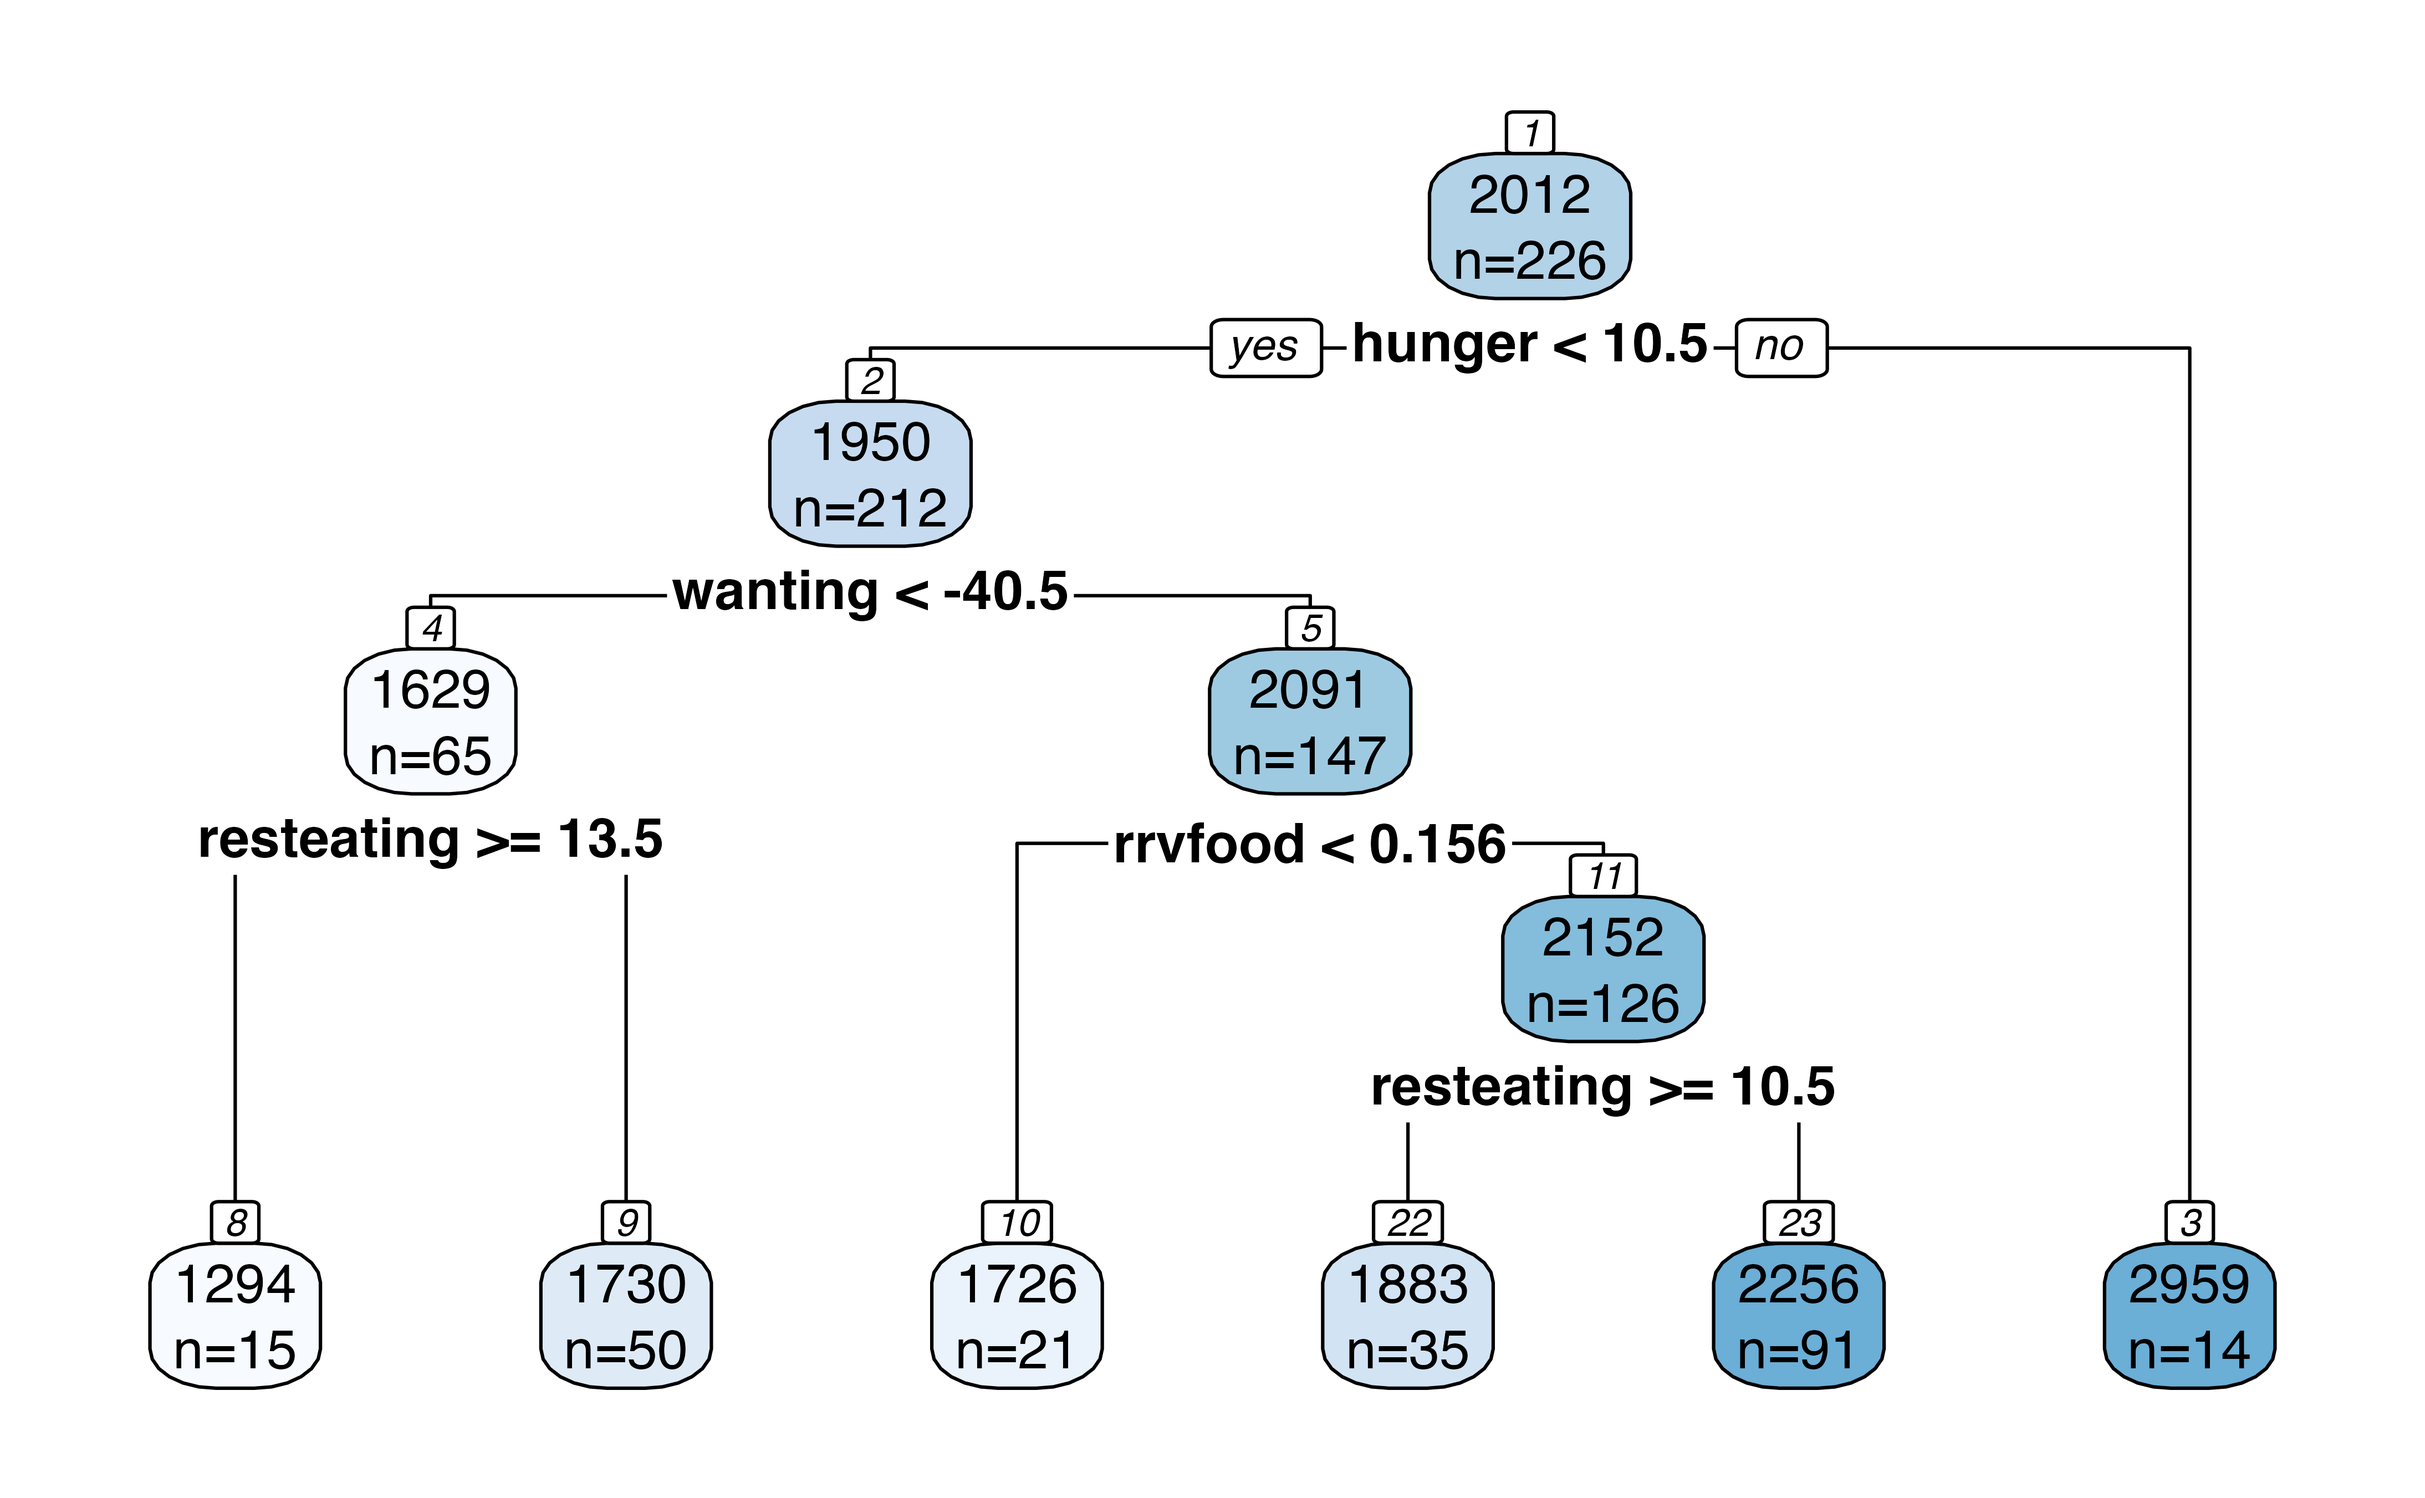
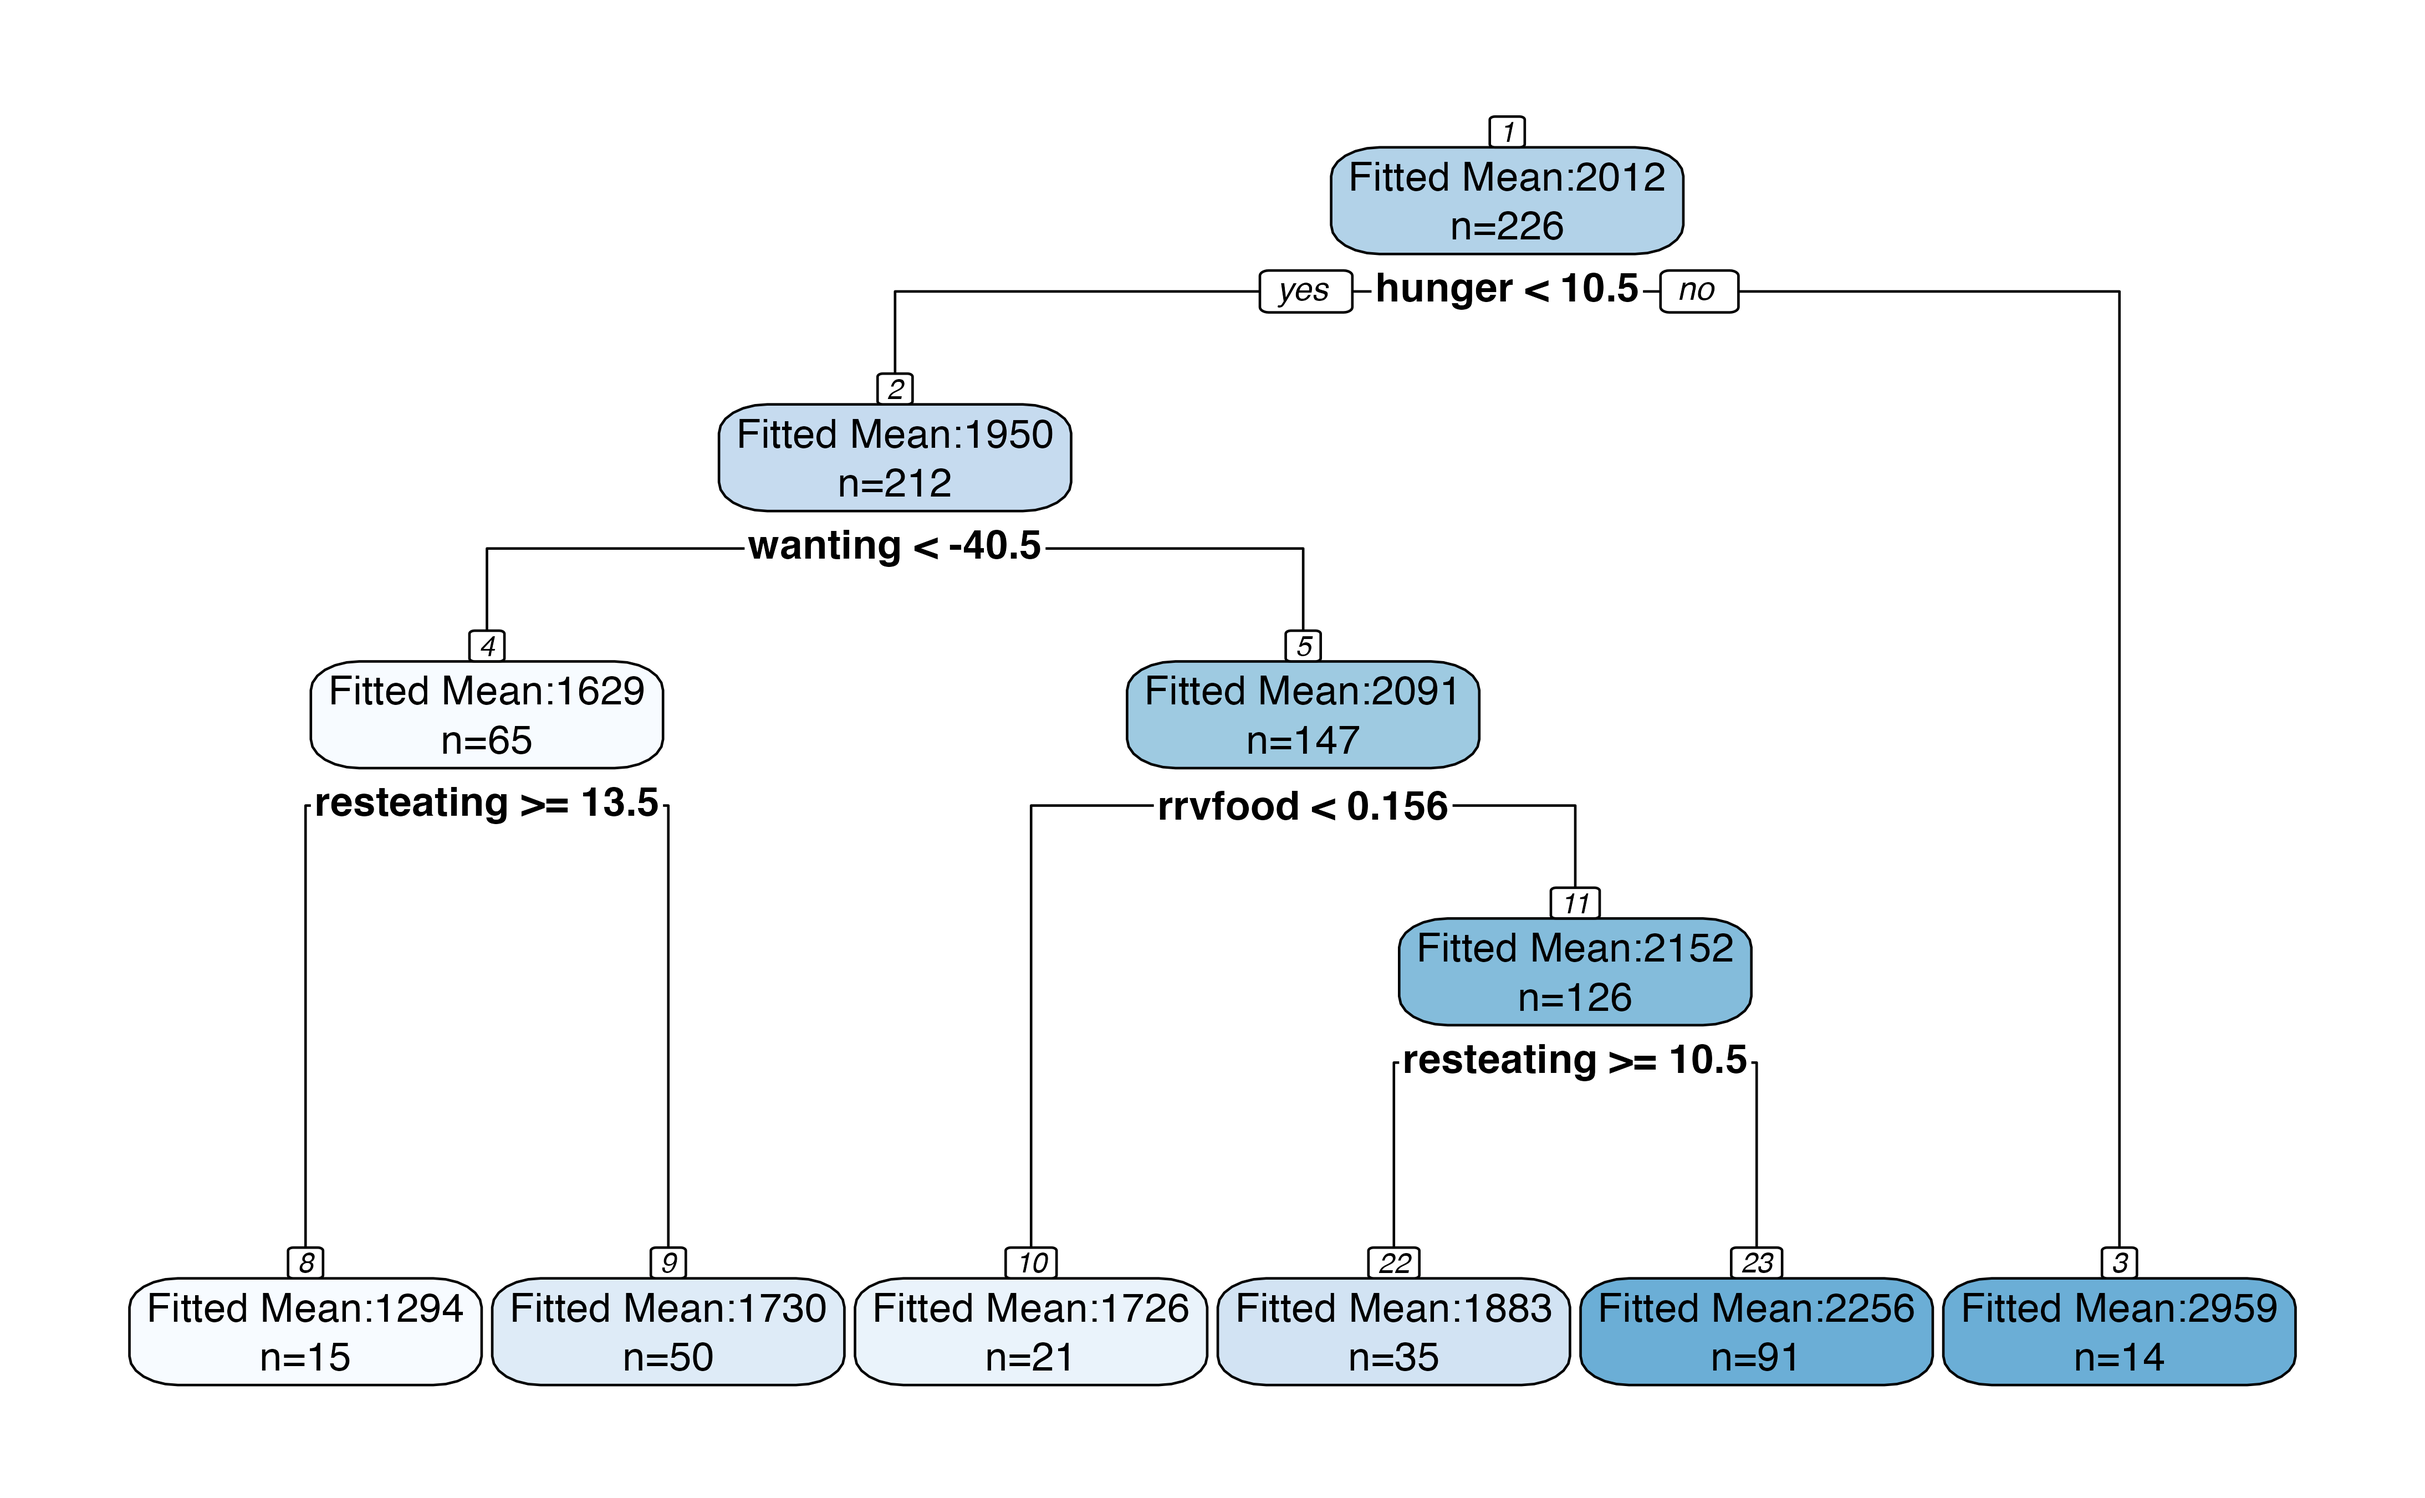
updated website again

diff --git a/docs/articles/inference_tutorial.html b/docs/articles/inference_tutorial.html
@@ -163,7 +163,7 @@
 <span class="co">## 2 intervals over R:</span>
 <span class="co">## (1224.75070250313, 1301.6652990799)</span>
 <span class="co">## (2868.72223626769, 3427.28431563896)</span></code></pre></div>
-<p>While this seems like an argument for always setting <code>permute=TRUE</code>, we note that computations can be prohibively slow for large trees when <code>permute=TRUE</code>. We also note that adding <code>permute=TRUE</code> tends to make a large difference only in trees where the overall signal is weak. Trees with very clear, significant splits tend to be more stable, and in more stable trees the addition of `permute=TRUE`` does not tend to substantially shorten confidence intervals.</p>
+<p>While this seems like an argument for always setting <code>permute=TRUE</code>, we note that computations can be prohibively slow for large trees when <code>permute=TRUE</code>. We also note that adding <code>permute=TRUE</code> tends to make a large difference only in trees where the overall signal is weak. Trees with strong signal and highly significant splits tend to be more stable, and in more stable trees the addition of <code>permute=TRUE</code> does not tend to substantially shorten confidence intervals.</p>
 </div>
 <div id="inference-for-the-entire-tree" class="section level1">
 <h1 class="hasAnchor">
@@ -176,10 +176,21 @@
 <div class="sourceCode" id="cb12"><pre class="downlit sourceCode r">
 <code class="sourceCode R"><span class="fu"><a href="../reference/treeval.plot.html">treeval.plot</a></span><span class="op">(</span><span class="va">bls.tree</span>, permute<span class="op">=</span><span class="cn">TRUE</span><span class="op">)</span></code></pre></div>
 <p><img src="inference_tutorial_files/figure-html/unnamed-chunk-12-1.png" width="90%"></p>
-<p>There are many ways to customize this plot. If the default version is too congested, alternate values of <code>inferenceType</code> can be provided to customize how much information is displayed. Addional arguments provided will be passed on to `<code>rpart.plot()</code>. For example,</p>
+</div>
+<div id="custom-plotting" class="section level1">
+<h1 class="hasAnchor">
+<a href="#custom-plotting" class="anchor"></a>Custom plotting</h1>
+<p>There are many ways to customize the output of <code>treeval.plot</code>. If the default version is too congested, alternate values of <code>inferenceType</code> can be provided to customize how much information is displayed. Addional arguments provided will be passed on to `<code>rpart.plot()</code>. The computationally intensive part of creating the plots is appending p-values and confidence intervals to the tree’s <code>frame</code>. If you plan to plan to play around extensively with plot formatting, you can avoid re-computing the p-values and confidence intervals for each plot by pre-augmenting the tree frame with this information. After running the <code>inferenceFrame</code> function once (this can run slowly, particularly if <code>permute=TRUE</code>), each plot can be made quite quickly.</p>
 <div class="sourceCode" id="cb13"><pre class="downlit sourceCode r">
-<code class="sourceCode R"><span class="fu"><a href="../reference/treeval.plot.html">treeval.plot</a></span><span class="op">(</span><span class="va">bls.tree</span>, inferenceType<span class="op">=</span><span class="fl">1</span>, cex<span class="op">=</span><span class="fl">0.5</span>, printn<span class="op">=</span><span class="cn">FALSE</span><span class="op">)</span></code></pre></div>
+<code class="sourceCode R"><span class="va">bls.tree</span> <span class="op">&lt;-</span> <span class="fu"><a href="../reference/inferenceFrame.html">inferenceFrame</a></span><span class="op">(</span><span class="va">bls.tree</span>, permute<span class="op">=</span><span class="cn">TRUE</span><span class="op">)</span>
+<span class="fu"><a href="../reference/treeval.plot.html">treeval.plot</a></span><span class="op">(</span><span class="va">bls.tree</span>, inferenceType<span class="op">=</span><span class="fl">2</span>, printn<span class="op">=</span><span class="cn">FALSE</span>, box.col<span class="op">=</span><span class="st">"green"</span><span class="op">)</span></code></pre></div>
 <p><img src="inference_tutorial_files/figure-html/unnamed-chunk-13-1.png" width="90%"></p>
+<div class="sourceCode" id="cb14"><pre class="downlit sourceCode r">
+<code class="sourceCode R"><span class="fu"><a href="../reference/treeval.plot.html">treeval.plot</a></span><span class="op">(</span><span class="va">bls.tree</span>, inferenceType<span class="op">=</span><span class="fl">1</span>, printn<span class="op">=</span><span class="cn">FALSE</span>, box.col<span class="op">=</span><span class="st">"purple"</span><span class="op">)</span></code></pre></div>
+<p><img src="inference_tutorial_files/figure-html/unnamed-chunk-13-2.png" width="90%"></p>
+<div class="sourceCode" id="cb15"><pre class="downlit sourceCode r">
+<code class="sourceCode R"><span class="fu"><a href="../reference/treeval.plot.html">treeval.plot</a></span><span class="op">(</span><span class="va">bls.tree</span>, inferenceType<span class="op">=</span><span class="fl">1</span>, printn<span class="op">=</span><span class="cn">TRUE</span>, box.col<span class="op">=</span><span class="st">"white"</span>, nn<span class="op">=</span><span class="cn">FALSE</span><span class="op">)</span></code></pre></div>
+<p><img src="inference_tutorial_files/figure-html/unnamed-chunk-13-3.png" width="90%"></p>
 </div>
 <div id="references" class="section level1 unnumbered">
 <h1 class="hasAnchor">
